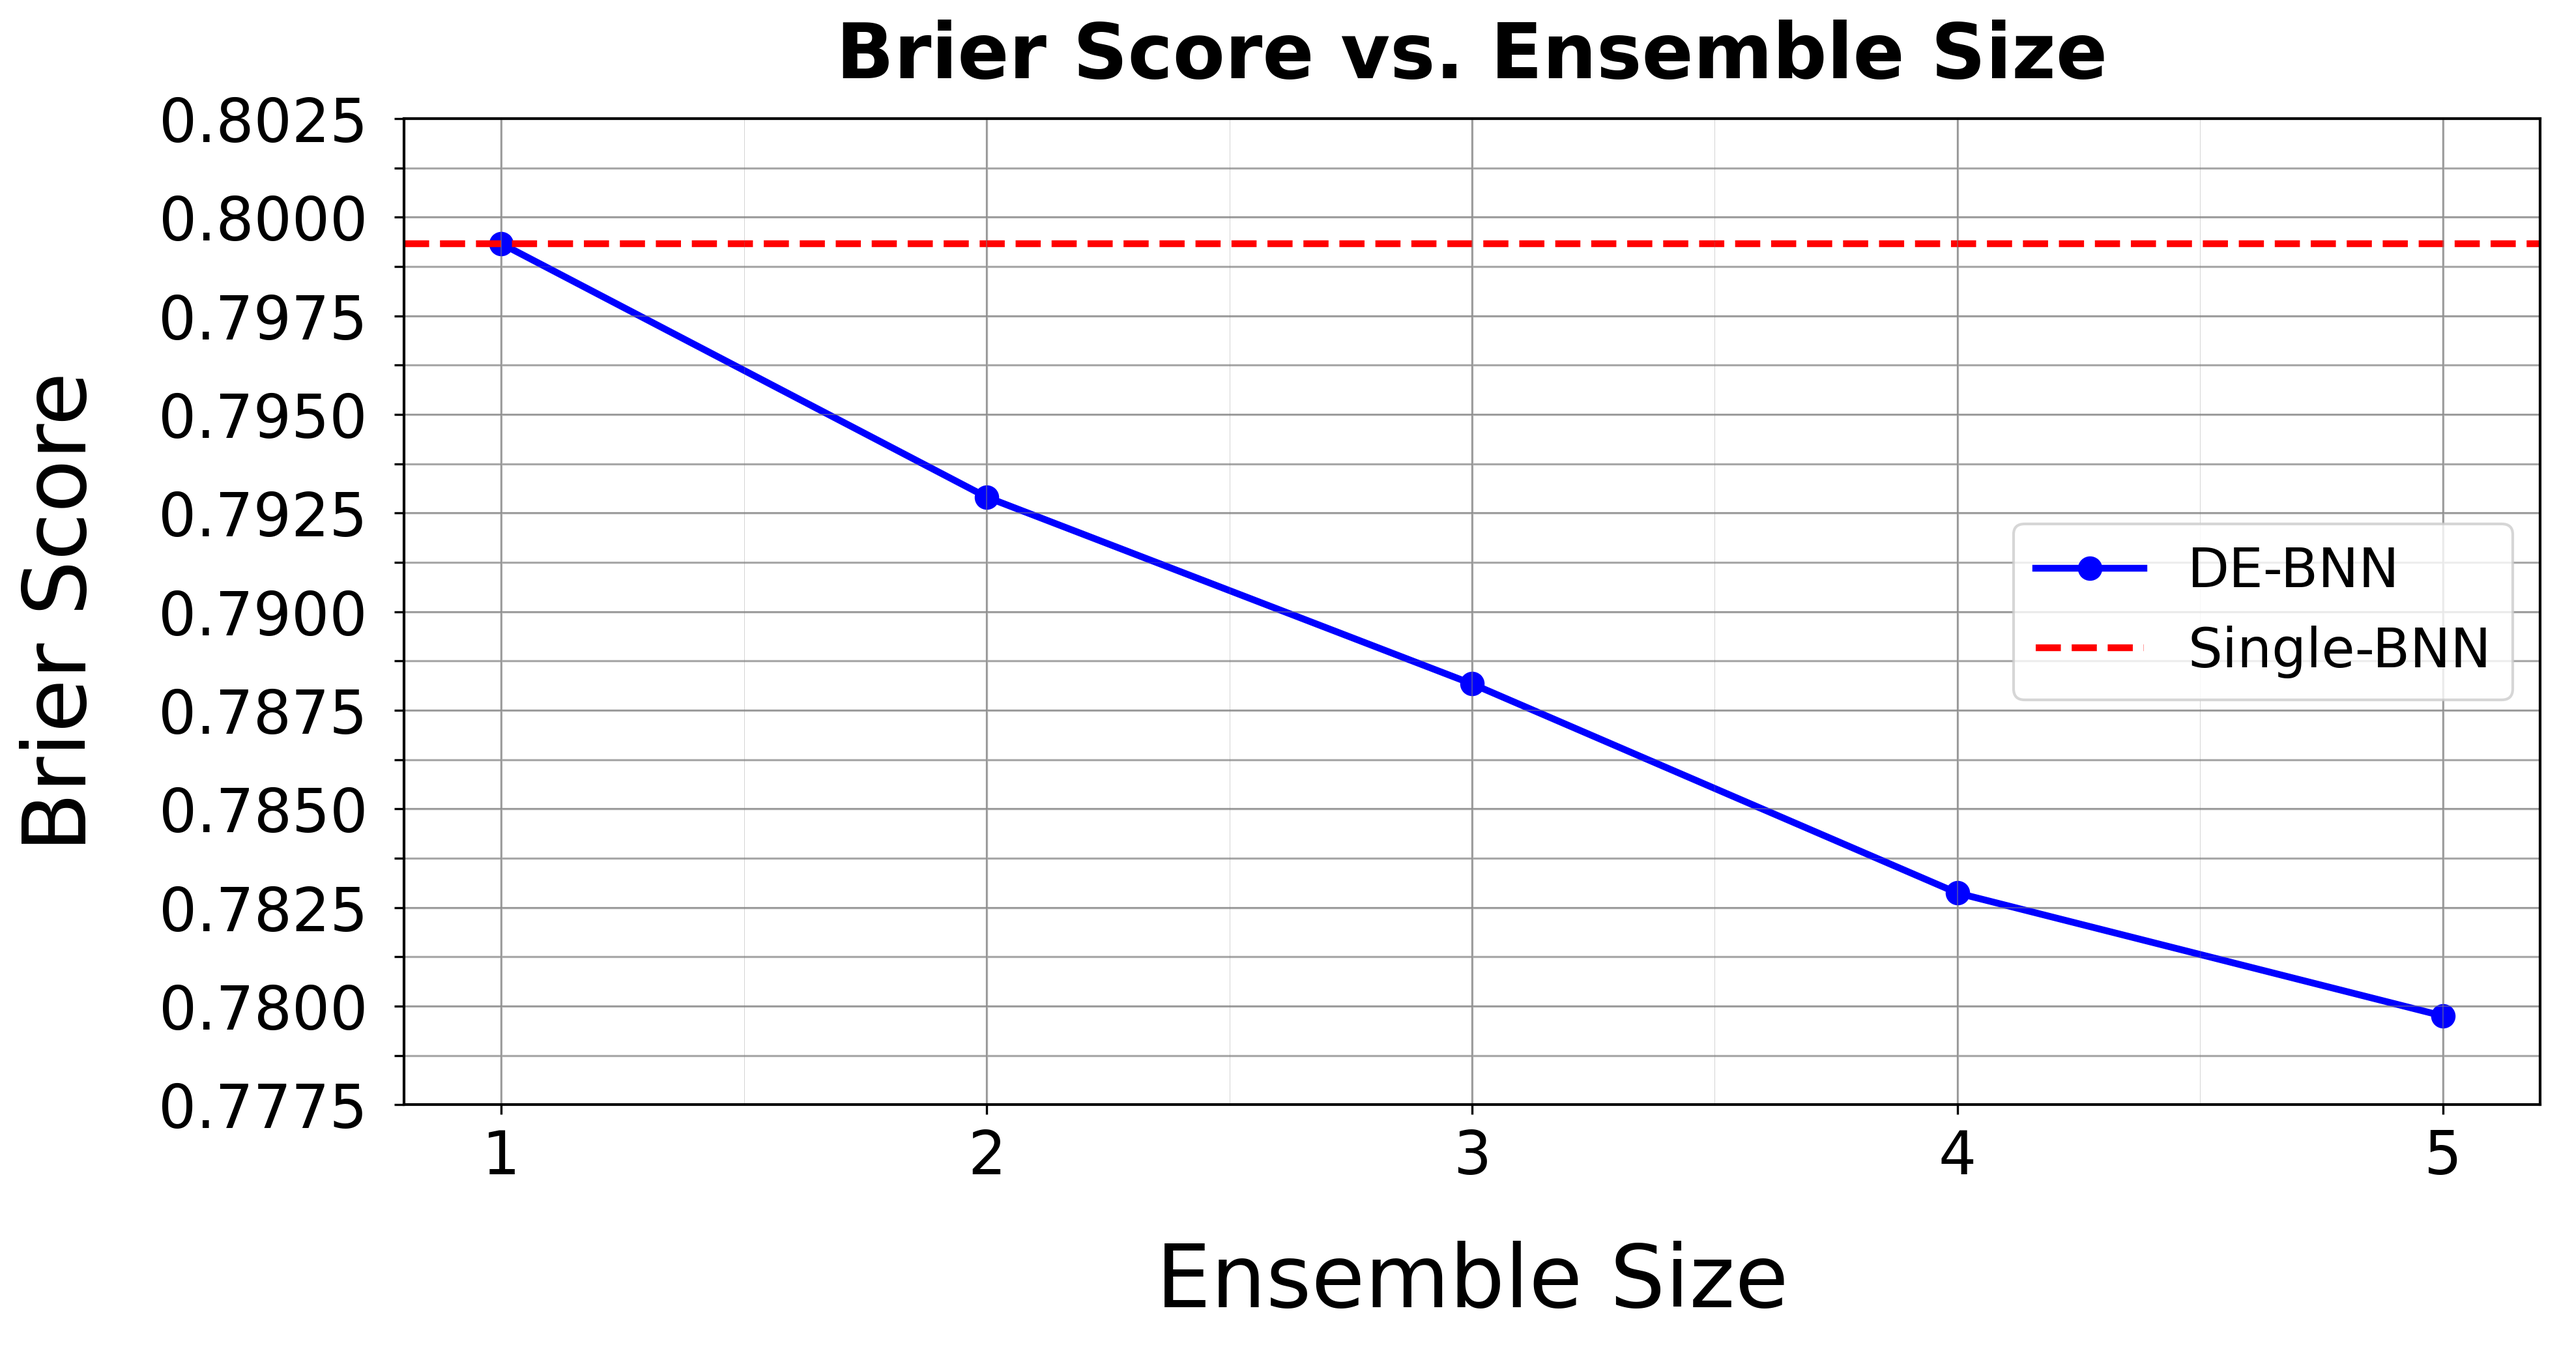
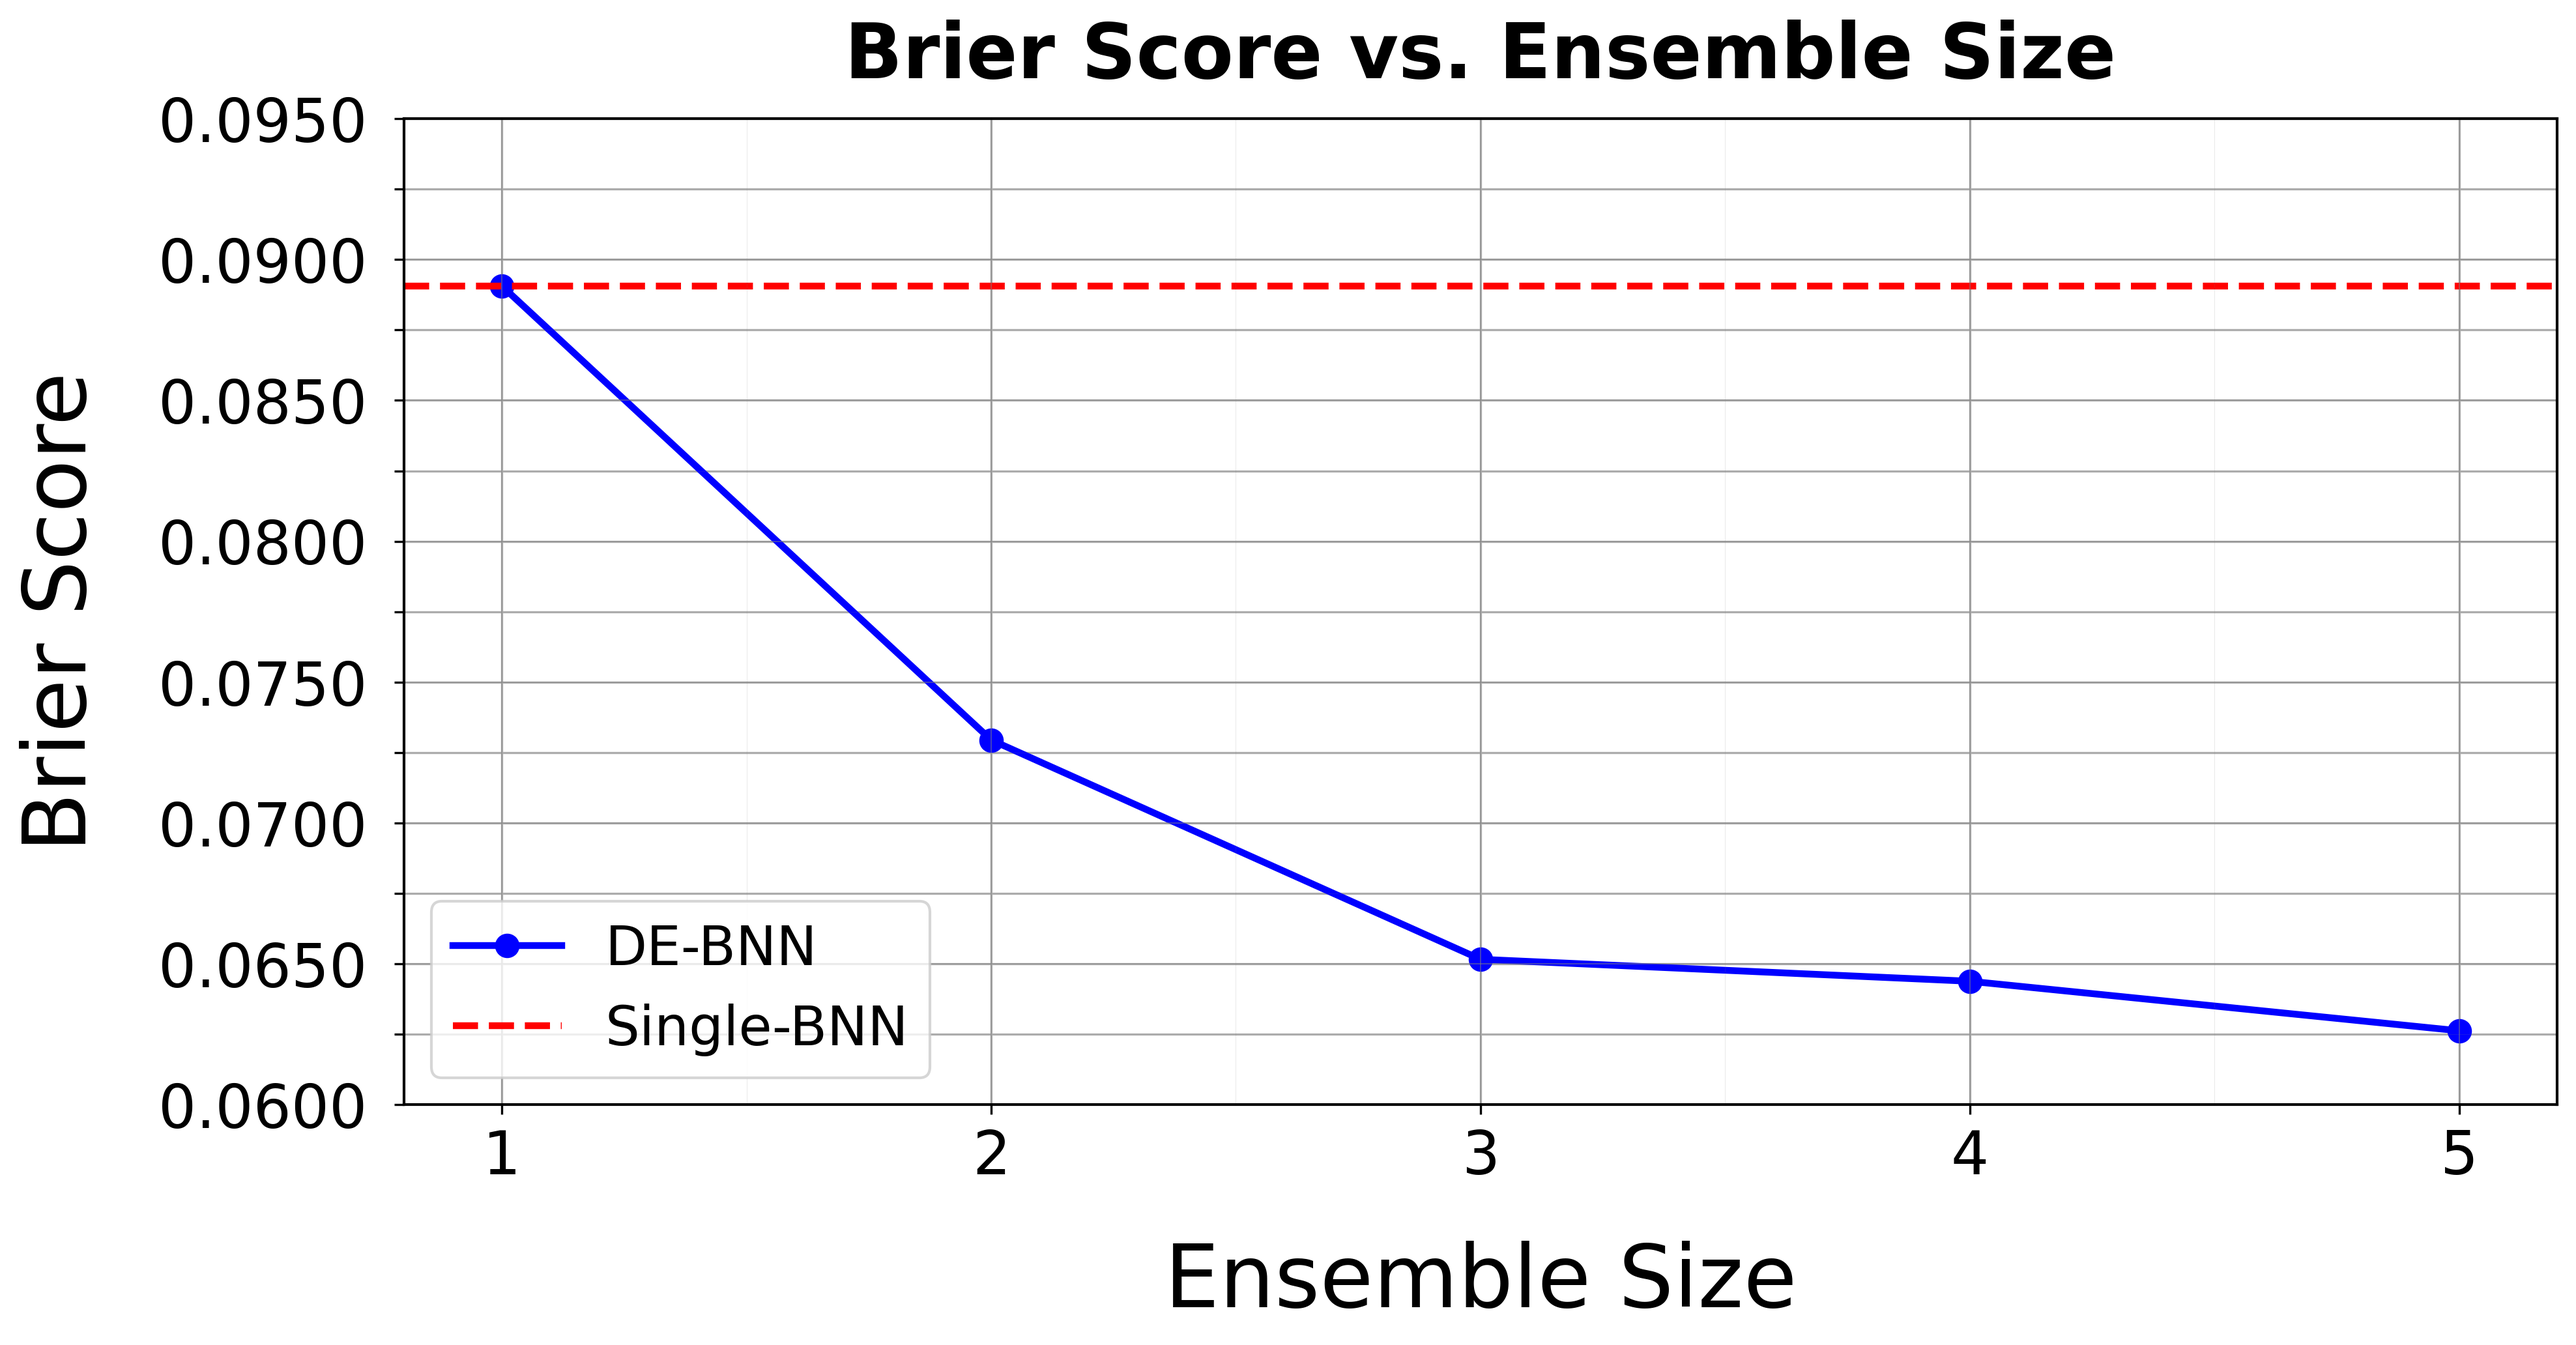
Changes

diff --git a/plots/Plots_main.py b/plots/Plots_main.py
@@ -5,6 +5,9 @@ from sklearn.metrics import accuracy_score
 import pandas as pd
 import time
 from matplotlib import pyplot as plt
+from netcal.metrics import ECE
+from sklearn.metrics import brier_score_loss
+from Save_and_Load_Models import save_bnn_model, load_bnn_model
 
 seed = 42
 random.seed(seed)
@@ -51,16 +54,11 @@ def ensemble_predict_classes(ensemble, X):
     probs = ensemble_predict_proba(ensemble, X)
     return np.argmax(probs, axis=1)
 
-#%% Evaluation Utilities
-def brier_score(y_true, y_proba, num_classes):
-    y_true_one_hot = tf.one_hot(y_true, depth=num_classes)
-    return tf.reduce_mean(tf.reduce_sum(tf.square(y_proba - y_true_one_hot), axis=1)).numpy()
-
 def predictive_entropy(y_proba):
     dist = tfp.distributions.Categorical(probs=y_proba)
     return tf.reduce_mean(dist.entropy()).numpy()
 
-def expected_calibration_error(y_true, y_proba, n_bins=10):
+"""def expected_calibration_error(y_true, y_proba, n_bins=10):
     confidences = tf.reduce_max(y_proba, axis=1)
     predictions = tf.argmax(y_proba, axis=1, output_type=tf.int32)
     accuracies = tf.cast(tf.equal(predictions, y_true), tf.float32)
@@ -71,21 +69,26 @@ def expected_calibration_error(y_true, y_proba, n_bins=10):
     for i in range(n_bins):
         bin_lower = bin_boundaries[i]
         bin_upper = bin_boundaries[i + 1]
-        in_bin = tf.logical_and(confidences > bin_lower, confidences <= bin_upper)
+        if i == 0:
+            in_bin = tf.logical_and(confidences >= bin_lower, confidences <= bin_upper)
+        else:
+            in_bin = tf.logical_and(confidences > bin_lower, confidences <= bin_upper)
         prop_in_bin = tf.reduce_mean(tf.cast(in_bin, tf.float32))
         if prop_in_bin > 0:
             accuracy_in_bin = tf.reduce_mean(tf.boolean_mask(accuracies, in_bin))
             avg_confidence_in_bin = tf.reduce_mean(tf.boolean_mask(confidences, in_bin))
             ece += tf.abs(avg_confidence_in_bin - accuracy_in_bin) * prop_in_bin
-    return ece.numpy()
+    return ece.numpy()"""
 
 def evaluate_model(y_true, y_proba, num_classes=10):
     y_pred = np.argmax(y_proba, axis=1)
     acc = accuracy_score(y_true, y_pred)
     nll = tf.keras.losses.SparseCategoricalCrossentropy()(y_true, y_proba).numpy()
-    brier = brier_score(y_true, y_proba, num_classes)
+    brier = brier_score_loss(y_true, y_proba, scale_by_half=False)
     entropy_val = predictive_entropy(y_proba)
-    ece_val = expected_calibration_error(y_true, y_proba)
+
+    ece = ECE(bins=num_classes)
+    ece_val = ece.measure(y_proba, y_true)
     return {
         "Accuracy": acc,
         "NLL": nll,
@@ -95,8 +98,8 @@ def evaluate_model(y_true, y_proba, num_classes=10):
     }
 
 #%% Load MNIST or CIFAR-10 and apply preprocessing
-(x_train_full, y_train_full), (x_test, y_test) = tf.keras.datasets.cifar10.load_data()
-# (x_train_full, y_train_full), (x_test, y_test) = tf.keras.datasets.mnist.load_data()  # Uncomment if using MNIST
+#(x_train_full, y_train_full), (x_test, y_test) = tf.keras.datasets.cifar10.load_data()
+(x_train_full, y_train_full), (x_test, y_test) = tf.keras.datasets.mnist.load_data()  # Uncomment if using MNIST
 
 # Normalize pixel values
 x_train_full = x_train_full.astype("float32") / 255.0
@@ -146,6 +149,7 @@ print("Time elapsed:", time.time() - start2)"""
 #%% Train DE-BNN
 ensemble = train_deep_ensemble(x_train, y_train, x_val, y_val, input_shape, num_classes, n_models=5)
 
+
 #%% Evaluate both models
 """print("\nEvaluating Single-BNN")
 y_proba_single = ensemble[0].predict_proba(x_test)
@@ -162,7 +166,6 @@ results_df = pd.DataFrame({
 })
 print("\nComparison of Evaluation Metrics:")
 print(results_df)
-
 
 # 1. Get predicted probabilities from each ensemble model
 probs_list = [model.predict_proba(x_test) for model in ensemble]
@@ -220,3 +223,9 @@ def plot_ensemble_metrics(ensemble, single):
         plt.show()
 
 plot_ensemble_metrics(df_ensemble_metrics, df_ensemble_metrics.iloc[0,:])
+
+save_bnn_model(ensemble[0], "Ensemble_Member_1")
+save_bnn_model(ensemble[1], "Ensemble_Member_2")
+save_bnn_model(ensemble[2], "Ensemble_Member_3")
+save_bnn_model(ensemble[3], "Ensemble_Member_4")
+save_bnn_model(ensemble[4], "Ensemble_Member_5")

diff --git a/Save_and_Load_Models.py b/Save_and_Load_Models.py
@@ -1,0 +1,77 @@
+import os
+import json
+import tensorflow as tf
+from ConvolutionalBNN_Model import ConvolutionalBNN
+import tensorflow_probability as tfp
+import numpy as np
+import random
+
+def save_bnn_model(bnn, model_name, base_folder="Saved_Models", seed=42):
+    """
+    Speichert Modellgewichte, Metadaten und Seed in einem automatisch erzeugten Unterordner.
+    """
+
+    model_folder = os.path.join(base_folder, model_name)
+    os.makedirs(model_folder, exist_ok=True)
+
+    weights_path = os.path.join(model_folder, f"{model_name}_weights.h5")
+    metadata_path = os.path.join(model_folder, f"{model_name}_metadata.json")
+
+    # Gewichte speichern
+    bnn.model.save_weights(weights_path)
+
+    # Metadaten inkl. Seed speichern
+    metadata = {
+        "input_shape": tuple(int(x) for x in bnn.input_shape),
+        "num_classes": int(bnn.num_classes),
+        "class_labels": [str(x) for x in bnn.class_labels],
+        "seed": seed
+    }
+
+    with open(metadata_path, "w") as f:
+        json.dump(metadata, f)
+
+    print(f"✅ Modell '{model_name}' gespeichert unter:\n📁 {model_folder}")
+
+def load_bnn_model(model_name, len_x_train, base_folder="Saved_Models"):
+    """
+    Lädt Modellgewichte, Metadaten und Seed aus: Saved_Models/{model_name}/
+    """
+
+    model_folder = os.path.join(base_folder, model_name)
+    weights_path = os.path.join(model_folder, f"{model_name}_weights.h5")
+    metadata_path = os.path.join(model_folder, f"{model_name}_metadata.json")
+
+    with open(metadata_path, "r") as f:
+        metadata = json.load(f)
+
+    input_shape = tuple(metadata["input_shape"])
+    num_classes = metadata["num_classes"]
+    class_labels = metadata["class_labels"]
+    seed = metadata.get("seed", 42)
+
+    # Globalen Seed setzen
+    tf.random.set_seed(seed)
+    np.random.seed(seed)
+    random.seed(seed)
+
+    # Modell rekonstruieren
+    bnn = ConvolutionalBNN(
+        input_shape=input_shape,
+        num_classes=num_classes,
+        class_labels=class_labels,
+        len_x_train=len_x_train
+    )
+
+    # Dummy Input zur Initialisierung
+    dummy_input = tf.zeros((1, *input_shape))
+    _ = bnn.model(dummy_input)
+
+    # Gewichte laden
+    bnn.model.load_weights(weights_path)
+
+    # SeedStream für deterministisches Sampling anhängen
+    bnn.seed_stream = tfp.util.SeedStream(seed=seed, salt="flipout")
+
+    print(f"✅ Modell '{model_name}' erfolgreich geladen mit Seed {seed} aus: {model_folder}")
+    return bnn

diff --git a/ConvolutionalBNN_Model.py b/ConvolutionalBNN_Model.py
@@ -1,7 +1,7 @@
 from imports import *
 
 class ConvolutionalBNN:
-    def __init__(self, input_shape, num_classes, len_x_train, class_labels=None):
+    def __init__(self, input_shape, num_classes, len_x_train, class_labels=None, seed=42):
         """
         Args:
             input_shape: tuple, shape of input images (e.g., (28, 28, 1))
@@ -19,6 +19,10 @@ class ConvolutionalBNN:
         self.class_labels = class_labels
         self.num_classes = num_classes
         self.model = self._build_model()
+
+        # Seed for deterministic Sampling
+        self.seed = seed
+        self.seed_stream = tfp.util.SeedStream(seed=seed, salt="flipout")
 
     def _build_model(self):
         """
@@ -139,6 +143,31 @@ class ConvolutionalBNN:
         """
         logits = self.predict_logits(X_test)
         return tf.nn.softmax(logits, axis=-1).numpy()
+
+    def predict_proba_mc(self, X_test, mc_samples=30, use_seed=True):
+        """
+        Predicts class probabilities by averaging over multiple stochastic forward passes.
+
+        Args:
+            X_test : np.ndarray
+                Test data
+            mc_samples : int
+                Number of MC samples
+            use_seed : bool
+                Whether to use internal self.seed_stream (for determinism)
+
+        Returns:
+            np.ndarray
+                Averaged predicted class probabilities
+        """
+        probas = []
+        for _ in range(mc_samples):
+            if use_seed and self.seed_stream is not None:
+                tf.random.set_seed(self.seed_stream())
+            logits = self.model(X_test, training=False).numpy()
+            probs = tf.nn.softmax(logits, axis=-1).numpy()
+            probas.append(probs)
+        return np.mean(probas, axis=0)
 
     def predict_classes(self, X_test):
         """
